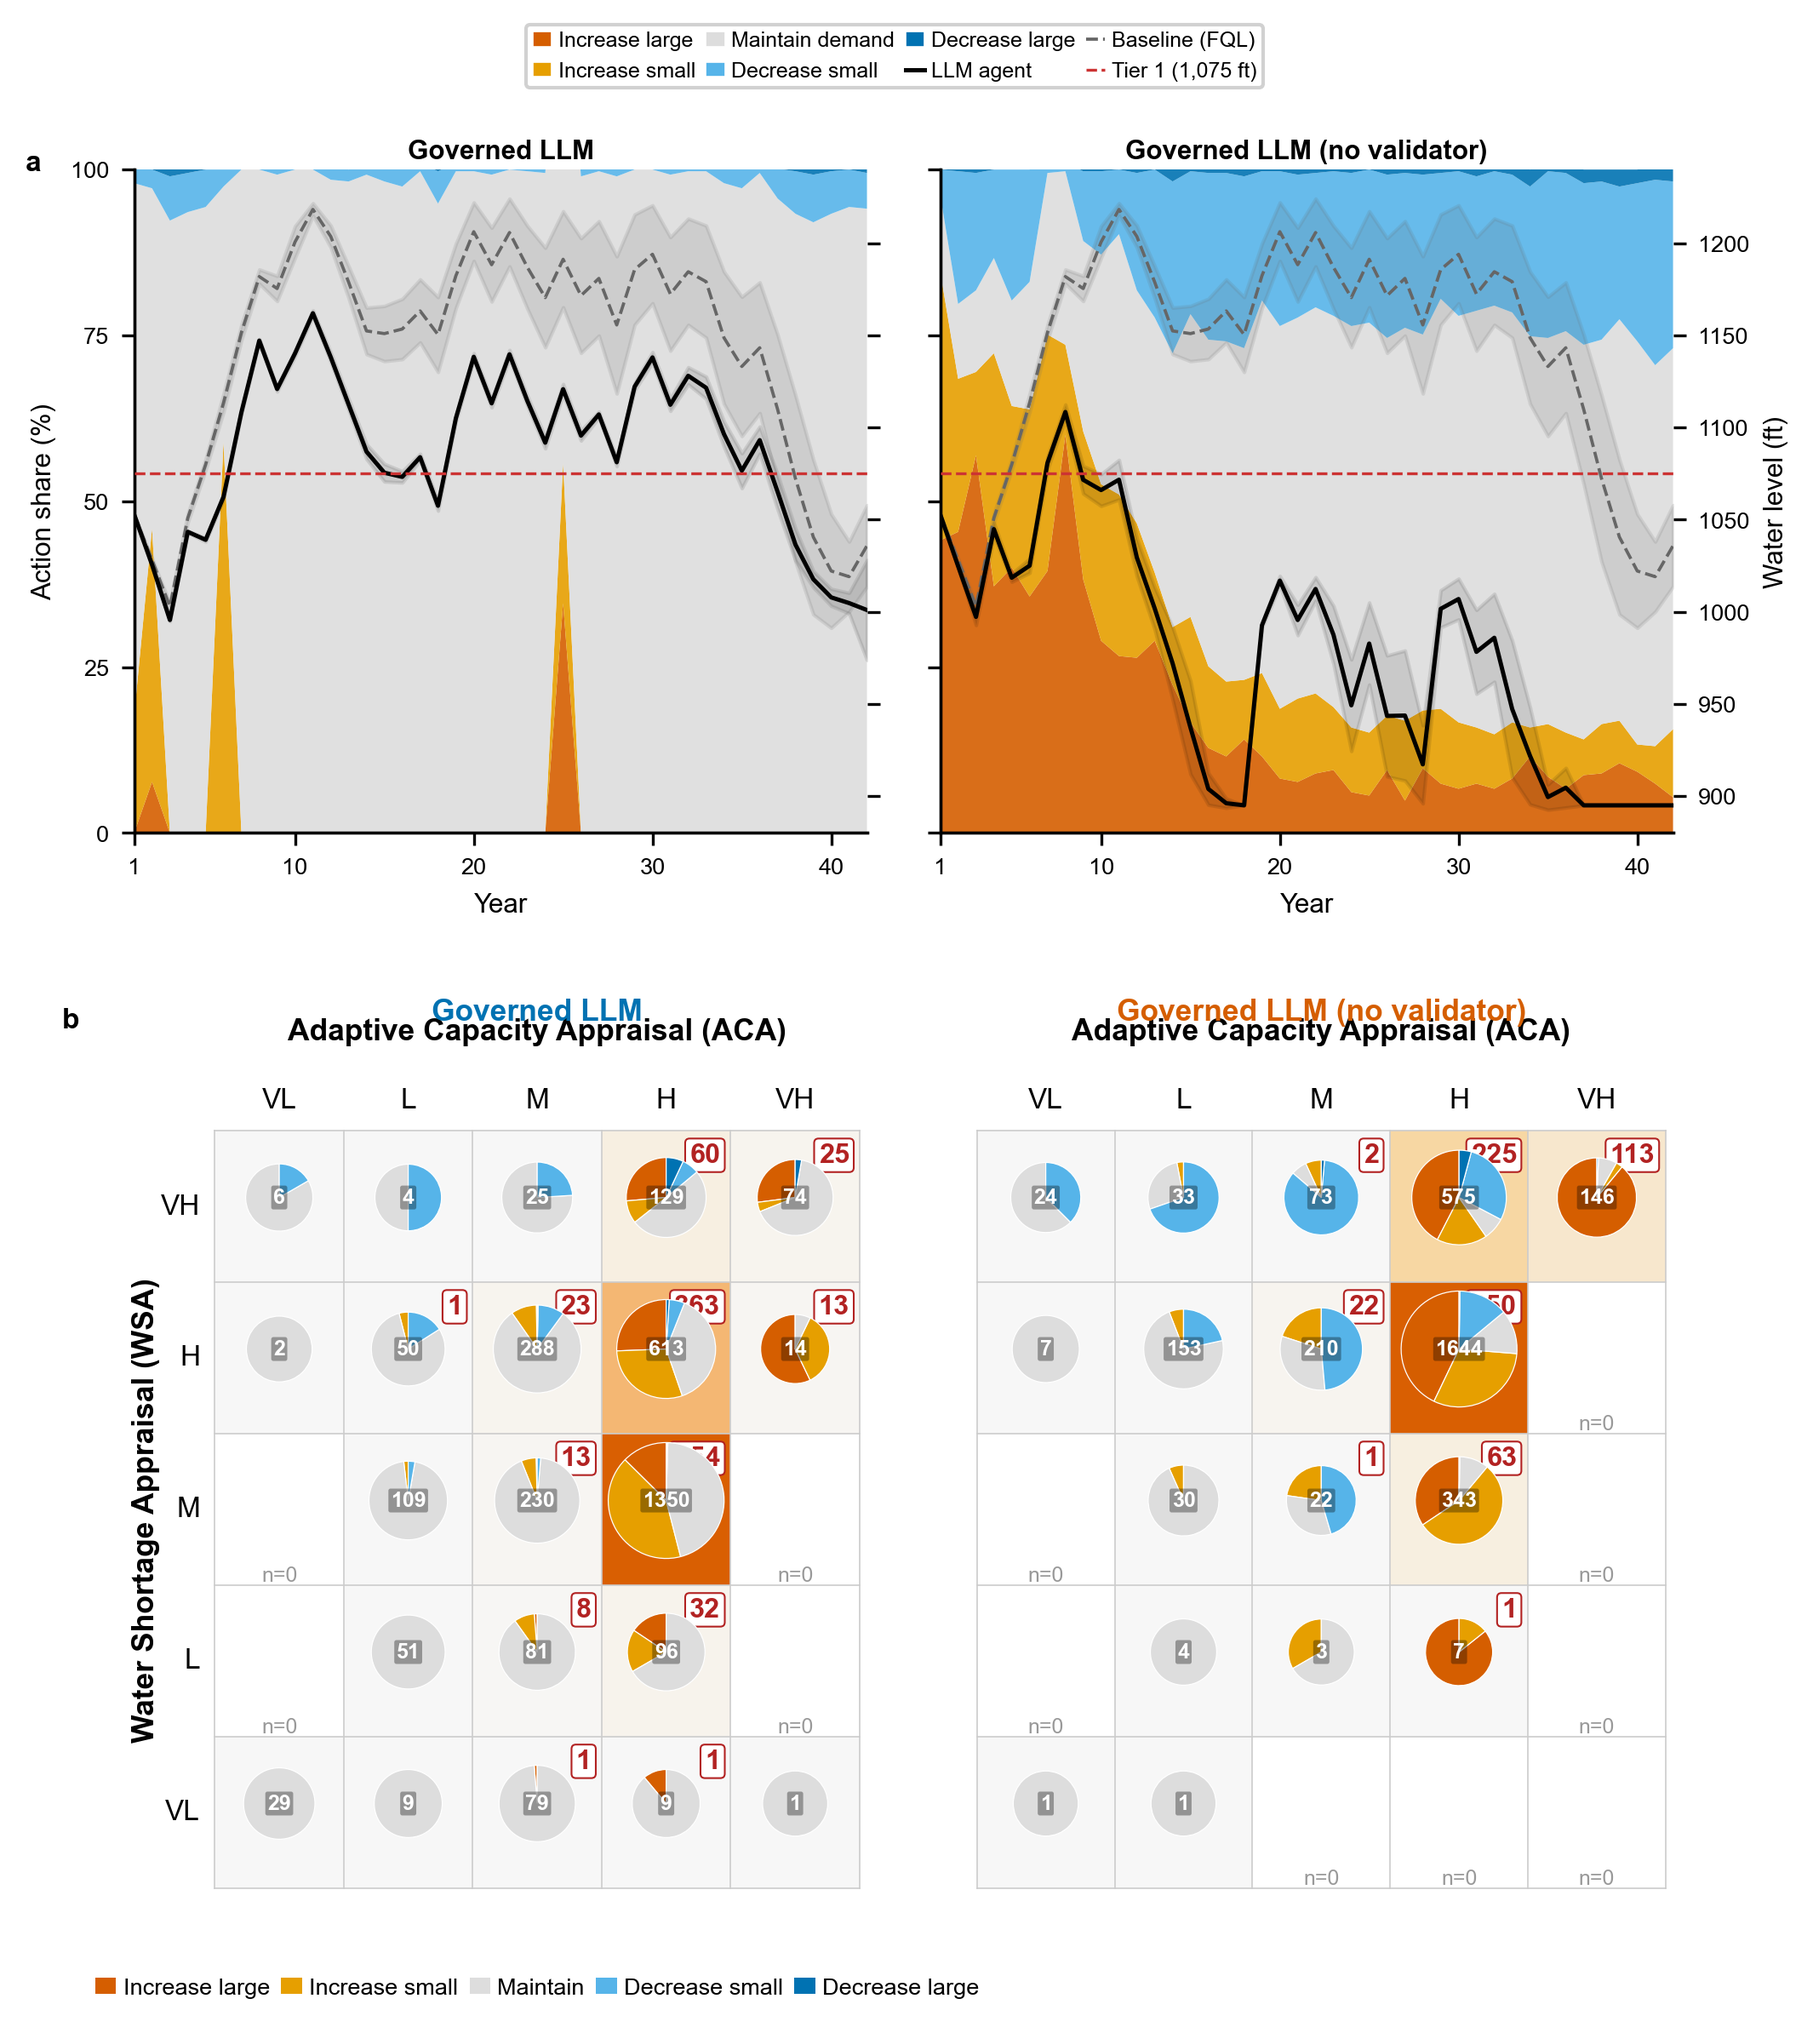
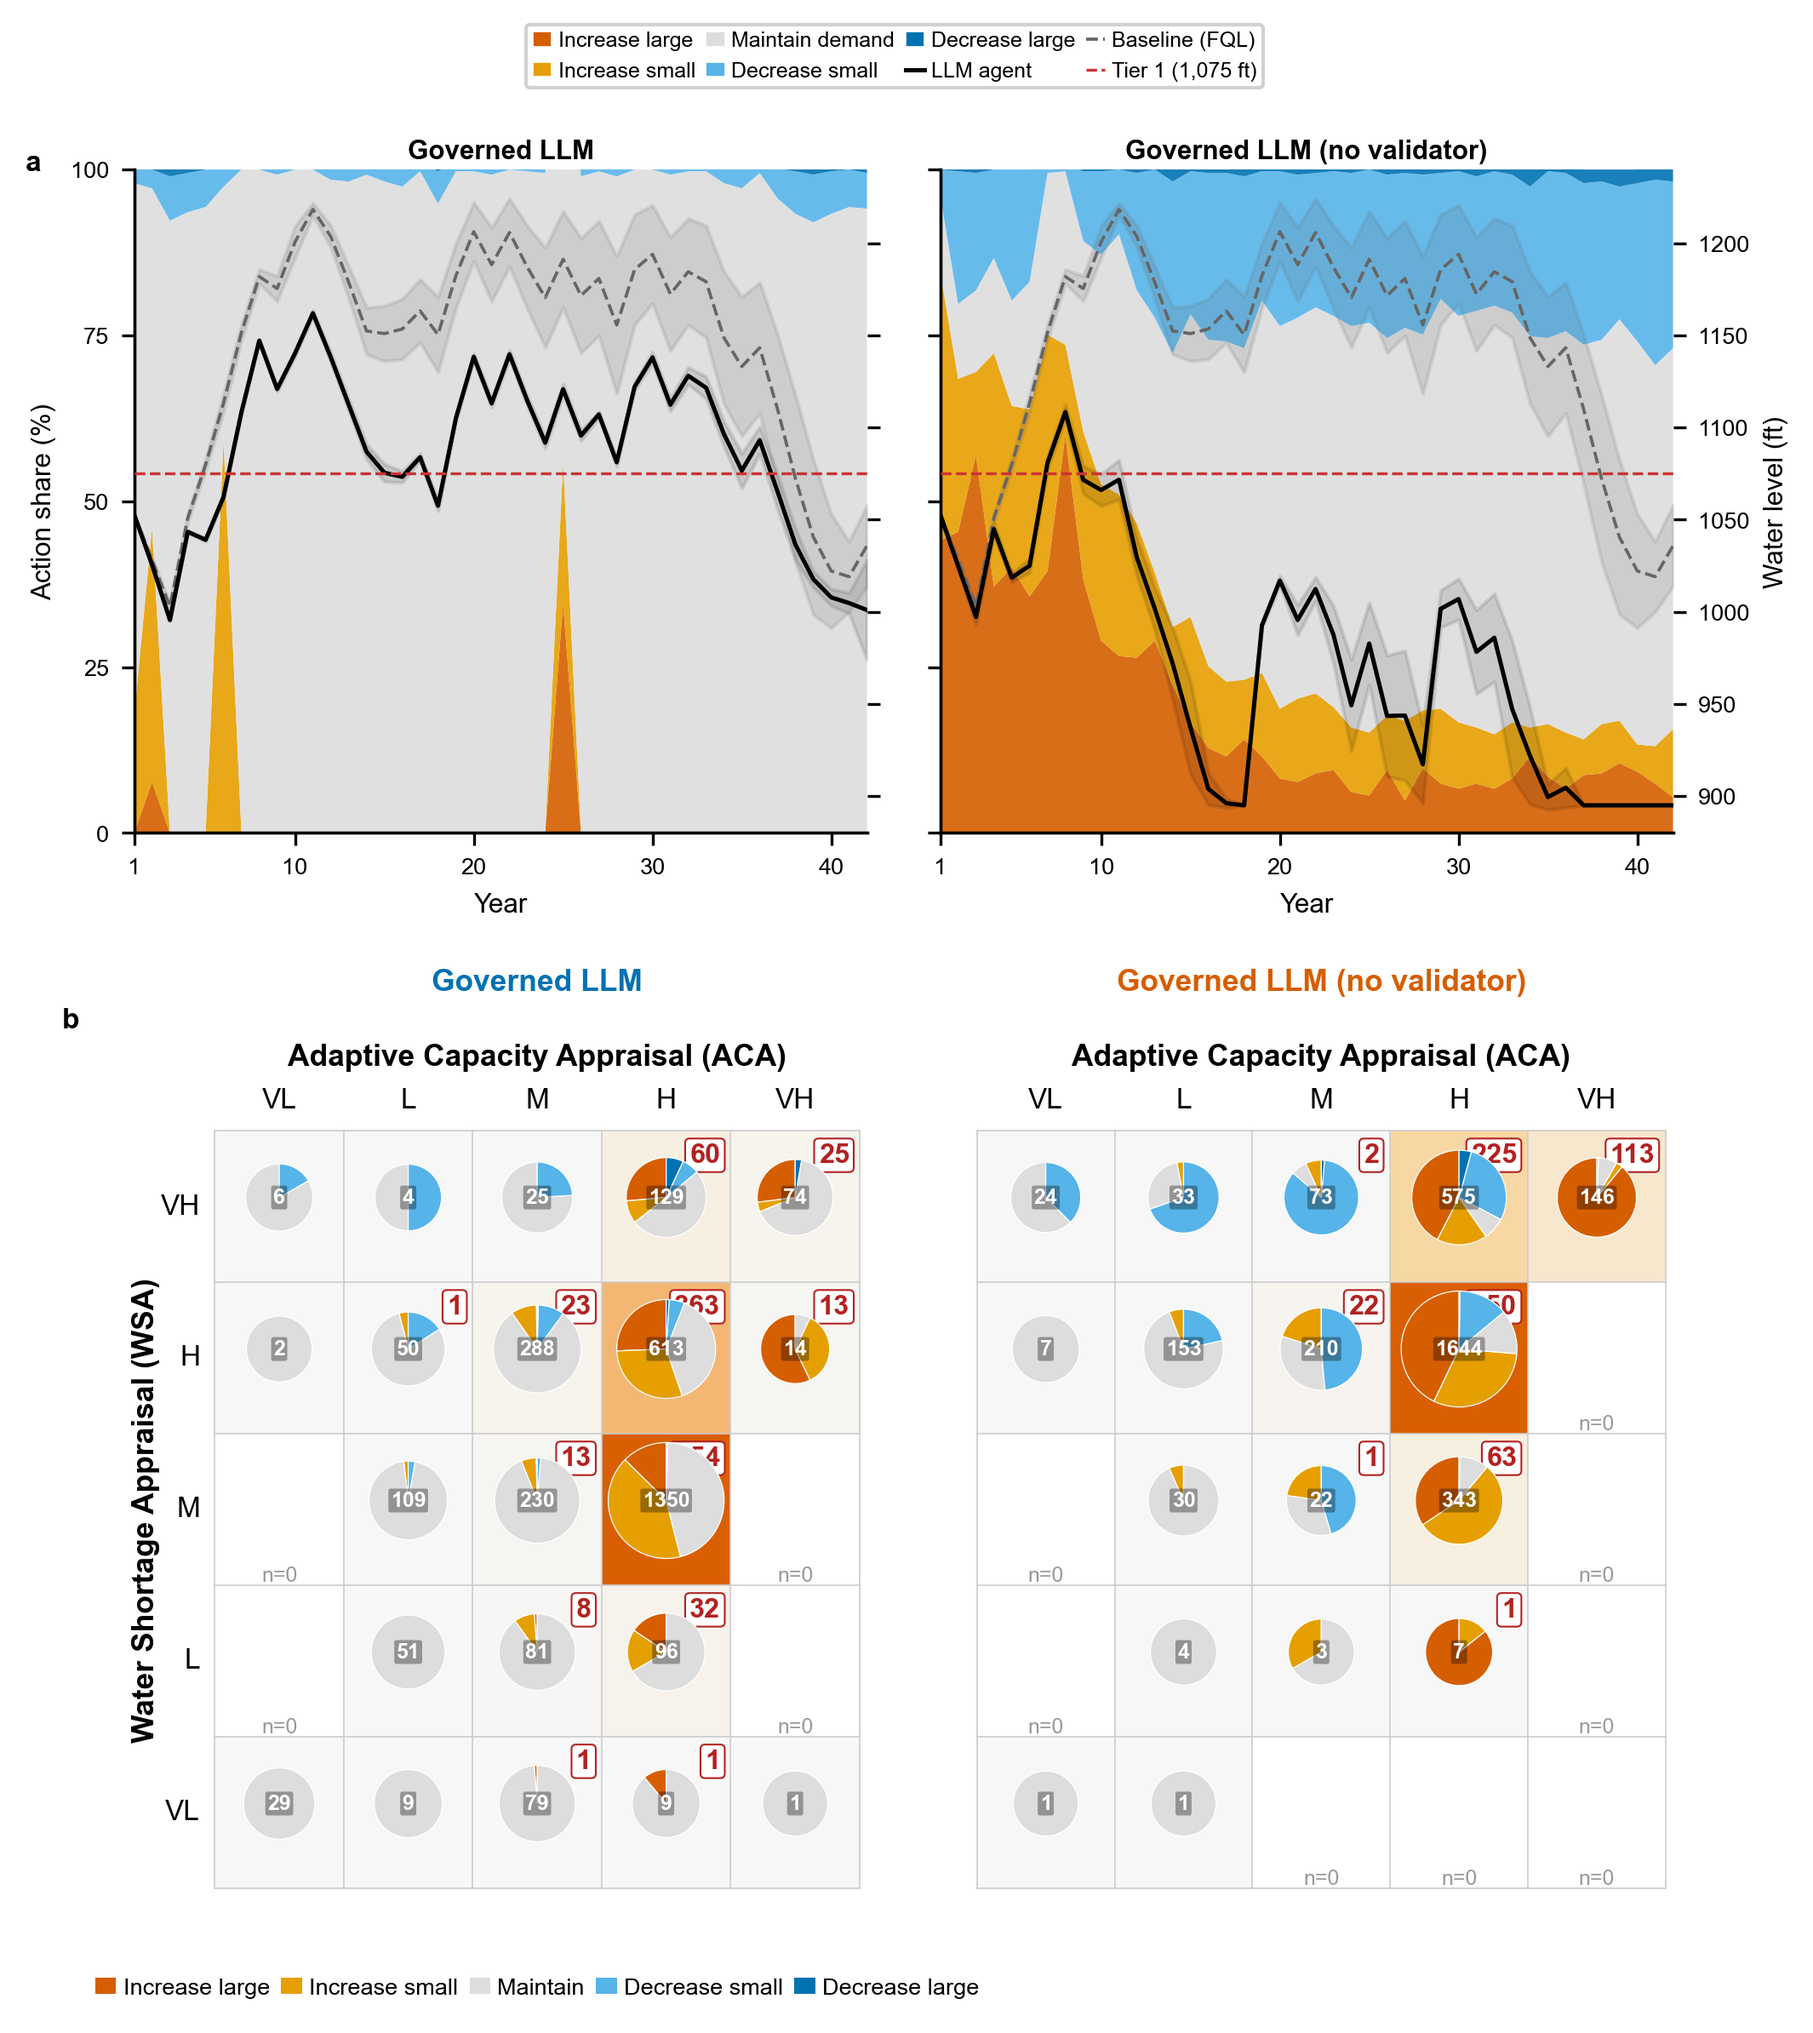
feat: separate Fig2 irrigation pie labels

Changed region(s): [[0.5887, 0.4648, 0.8676, 0.5268], [0.1549, 0.4648, 0.4338, 0.5268]]

diff --git a/paper/nature_water/scripts/gen_fig2_case1_irrigation.py b/paper/nature_water/scripts/gen_fig2_case1_irrigation.py
@@ -433,6 +433,13 @@ def get_irrigation_center_count_style():
     }
 
 
+def get_irrigation_pie_text_layout():
+    return {
+        "aca_label_y": 0.965,
+        "title_y": 1.035,
+    }
+
+
 def draw_irrigation_pie_grid(
     fig,
     ax_bg,
@@ -445,6 +452,7 @@ def draw_irrigation_pie_grid(
     show_legend=False,
 ):
     ax_bg.set_axis_off()
+    text_layout = get_irrigation_pie_text_layout()
 
     if pie_data is None:
         ax_bg.text(0.5, 0.5, "No audit data", ha='center', va='center',
@@ -560,14 +568,14 @@ def draw_irrigation_pie_grid(
 
     ax_bg.text(
         left_margin + (1.0 - left_margin - right_margin) / 2,
-        1.0 - top_margin * 0.05,
+        text_layout["aca_label_y"],
         "Adaptive Capacity Appraisal (ACA)",
         ha='center', va='center', fontsize=8.5, fontweight='bold',
         transform=ax_bg.transAxes,
     )
     ax_bg.text(
         left_margin + (1.0 - left_margin - right_margin) / 2,
-        1.0,
+        text_layout["title_y"],
         title,
         ha='center', va='bottom', fontsize=8.5, fontweight='bold',
         color=title_color,

diff --git a/tests/test_nature_water_figure_helpers.py b/tests/test_nature_water_figure_helpers.py
@@ -132,3 +132,12 @@ def test_irrigation_center_count_style_matches_fig3_overlay():
     assert style["fontsize"] == 6.0
     assert style["fontweight"] == "bold"
     assert style["bbox"]["facecolor"] == "#00000055"
+
+
+def test_irrigation_title_sits_above_aca_axis_label():
+    mod = _load_irrigation_fig_module()
+
+    layout = mod.get_irrigation_pie_text_layout()
+
+    assert layout["title_y"] > layout["aca_label_y"]
+    assert layout["title_y"] - layout["aca_label_y"] >= 0.06
